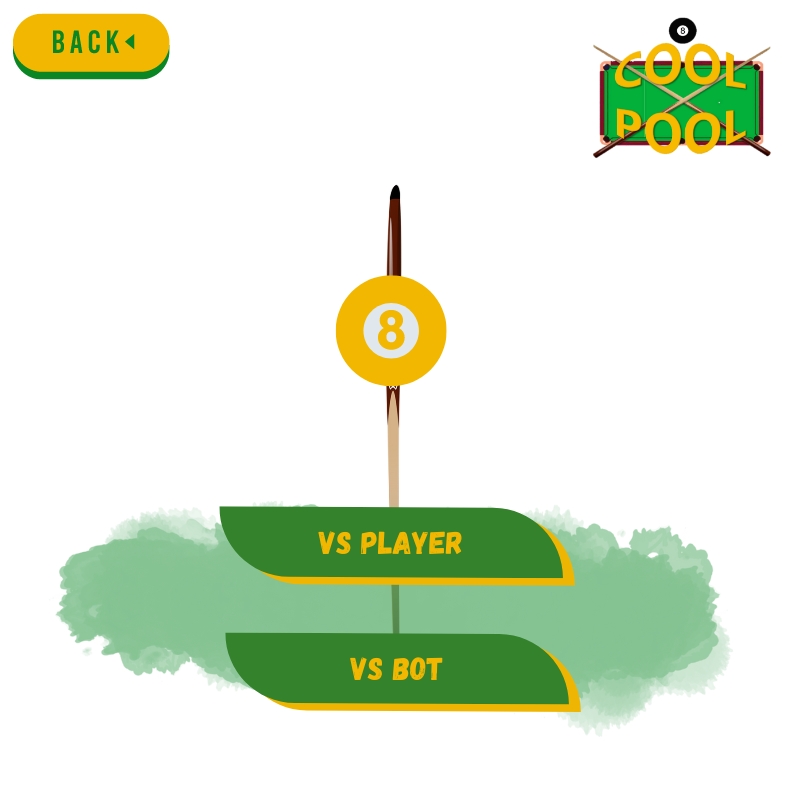
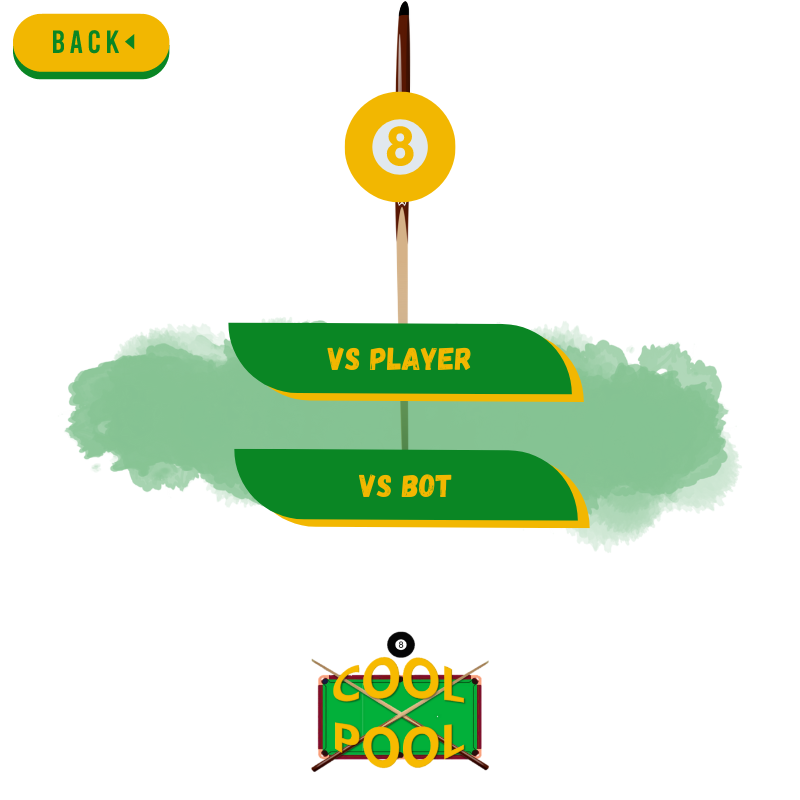
Arreglado el tema de los botones, cambié la pre-pantalla de juego

diff --git a/main.py b/main.py
@@ -69,8 +69,8 @@ data_hitbox = button.Button(714, 706, 778 - 714, 782 - 706)
 return_hitbox = button.Button(12, 18, 165 - 12, 74 - 18)
 
 # BOTONES DE LA PANTALLA DE JUEGO BÁSICA
-prePlayPlayerActive_hitbox = button.Button(221, 502, 0, 0)
-preBotActive_hitbox = button.Button(221, 629, 0, 0)
+prePlayPlayerActive_hitbox = button.Button(221, 319, 0, 0)
+preBotActive_hitbox = button.Button(221, 441, 0, 0)
 
 # BOTONES DE LA PANTALLA MENU
 
@@ -107,7 +107,7 @@ prePlay = False
 playing = False
 playMusic()
 
-#                      COSAS DE PYMUNK
+# COSAS DE PYMUNK
 
 # Pymunk space
 space = pymunk.Space()
@@ -193,6 +193,7 @@ for b in border:
 
 while True:
     # mouse_x, mouse_y = pygame.mouse.get_pos()  # posición cartesiana del mouse
+
     if playing == False:
     # Este for revisa cada evento posible
         for event in pygame.event.get():
@@ -212,23 +213,26 @@ while True:
             if main == True:
 
                 window.blit(game, (posX, posY))
-                if start_hitbox.down(event) == True:
+                # START HOVER
+                if start_hitbox.hover(event) == True:
                     window.blit(game_start_click, (posX, posY))
-                # MENU
-                if menu_hitbox.down(event) == True:
+                # MENU HOVER
+                if menu_hitbox.hover(event) == True:
                     window.blit(game_menu_click, (posX, posY))
-                # DATOS
-                if data_hitbox.down(event) == True:
+                # DATOS HOVER
+                if data_hitbox.hover(event) == True:
                     window.blit(game_data_click, (posX, posY))
-                if start_hitbox.up(event) == True:
+
+                # START DOWN
+                if start_hitbox.down(event) == True:
                     main = False
                     start = True
-                # MENU
-                if menu_hitbox.up(event) == True:
+                # MENU DOWN
+                if menu_hitbox.down(event) == True:
                     menu = True
                     main = False
-                # DATOS
-                if data_hitbox.up(event) == True:
+                # DATOS DOWN
+                if data_hitbox.down(event) == True:
                     data = True
                     main = False
 
@@ -236,28 +240,29 @@ while True:
             if start == True and main == False:
 
                 # dibujamos la hitbox
-                prePlayPlayerActive_hitbox = button.Button(221, 502, 577 - 210, 585 - 502)
-                preBotActive_hitbox = button.Button(221, 629, 577 - 210, 585 - 502)
+                prePlayPlayerActive_hitbox = button.Button(221, 319, 577 - 210, 585 - 502)
+                preBotActive_hitbox = button.Button(221, 441, 577 - 210, 585 - 502)
 
                 pygame.mixer.music.stop()
                 window.fill(white_color)
 
                 # DOWN EVENT
 
-                if return_hitbox.down(event) == True:
+                if return_hitbox.hover(event) == True:
                     window.blit(prePlayBackActive, (posX, posY))
 
-                elif prePlayPlayerActive_hitbox.down(event) == True:
+                elif prePlayPlayerActive_hitbox.hover(event) == True:
                     window.blit(prePlayPlayerActiveImage, (posX, posY))
 
-                elif preBotActive_hitbox.down(event) == True:
+                elif preBotActive_hitbox.hover(event) == True:
                     window.blit(prePlayBotActive, (posX, posY))
 
                 else:
                     window.blit(prePlayInactive, (posX, posY))
 
                 # UP EVENT
-                if prePlayPlayerActive_hitbox.up(event) == True:
+
+                if prePlayPlayerActive_hitbox.down(event) == True:
                     playMusic()
                     start = False
                     playing = True
@@ -265,12 +270,12 @@ while True:
                     base_width = 1200
                     window = pygame.display.set_mode((base_width, base_height), pygame.RESIZABLE)
 
-                if return_hitbox.up(event) == True:
+                if return_hitbox.down(event) == True:
                     playMusic()
                     start = False
                     main = True
 
-                if preBotActive_hitbox.up(event) == True:
+                if preBotActive_hitbox.down(event) == True:
                     playMusic()
                     start = False
                     main = True
@@ -282,19 +287,16 @@ while True:
 
             # VENTANA DATOS
             if data == True:
-                pygame.mixer.music.stop()
 
                 if return_hitbox.down(event) == True:
-                    window.blit(data_return, (posX, posY))
-                else:
-                    window.blit(data_image, (posX, posY))
-                if return_hitbox.up(event) == True:
-                    playMusic()
                     data = False
                     main = True
 
+                if return_hitbox.hover(event) == True:
+                    window.blit(data_return, (posX, posY))
 
-
+                else:
+                    window.blit(data_image, (posX, posY))
 
 
 
@@ -319,8 +321,8 @@ while True:
                     print('Colisión con la línea derecha')
                 elif topLine.check_collision('bocha'):
                     print('Colisión con la línea superior')
-                '''
-            prePlayPlayerActive_hitbox.draw(window)
+            '''
+
             if event.type == QUIT:
                 pygame.quit()
                 sys.exit()
@@ -344,7 +346,7 @@ while True:
         # Event Handler
         for event in pygame.event.get():
             # Disparar la bola blanca
-            if event.type == pygame.MOUSEBUTTONUP:
+            if event.type == pygame.MOUSEBUTTONDOWN:
                 cue_ball.body.apply_impulse_at_local_point((-3500, 0), (0, 0))
             if event.type == pygame.QUIT:
                 pygame.quit()
@@ -352,7 +354,7 @@ while True:
 
         # space.debug_draw(draw_options)
         pygame.display.update()
-
+    print(pygame.mouse.get_pos())
     # print(pygame.mouse.get_pos())
     clock.tick(60)
     pygame.display.flip()

diff --git a/button.py b/button.py
@@ -27,3 +27,9 @@ class Button:
         if (self.hitbox.collidepoint(mouse_pos) and event.type == pygame.MOUSEBUTTONDOWN):
             if event.button == 1:
                 return True
+
+    def hover(self, event):
+        mouse_pos = pygame.mouse.get_pos()
+
+        if(self.hitbox.collidepoint(mouse_pos)):
+            return True
